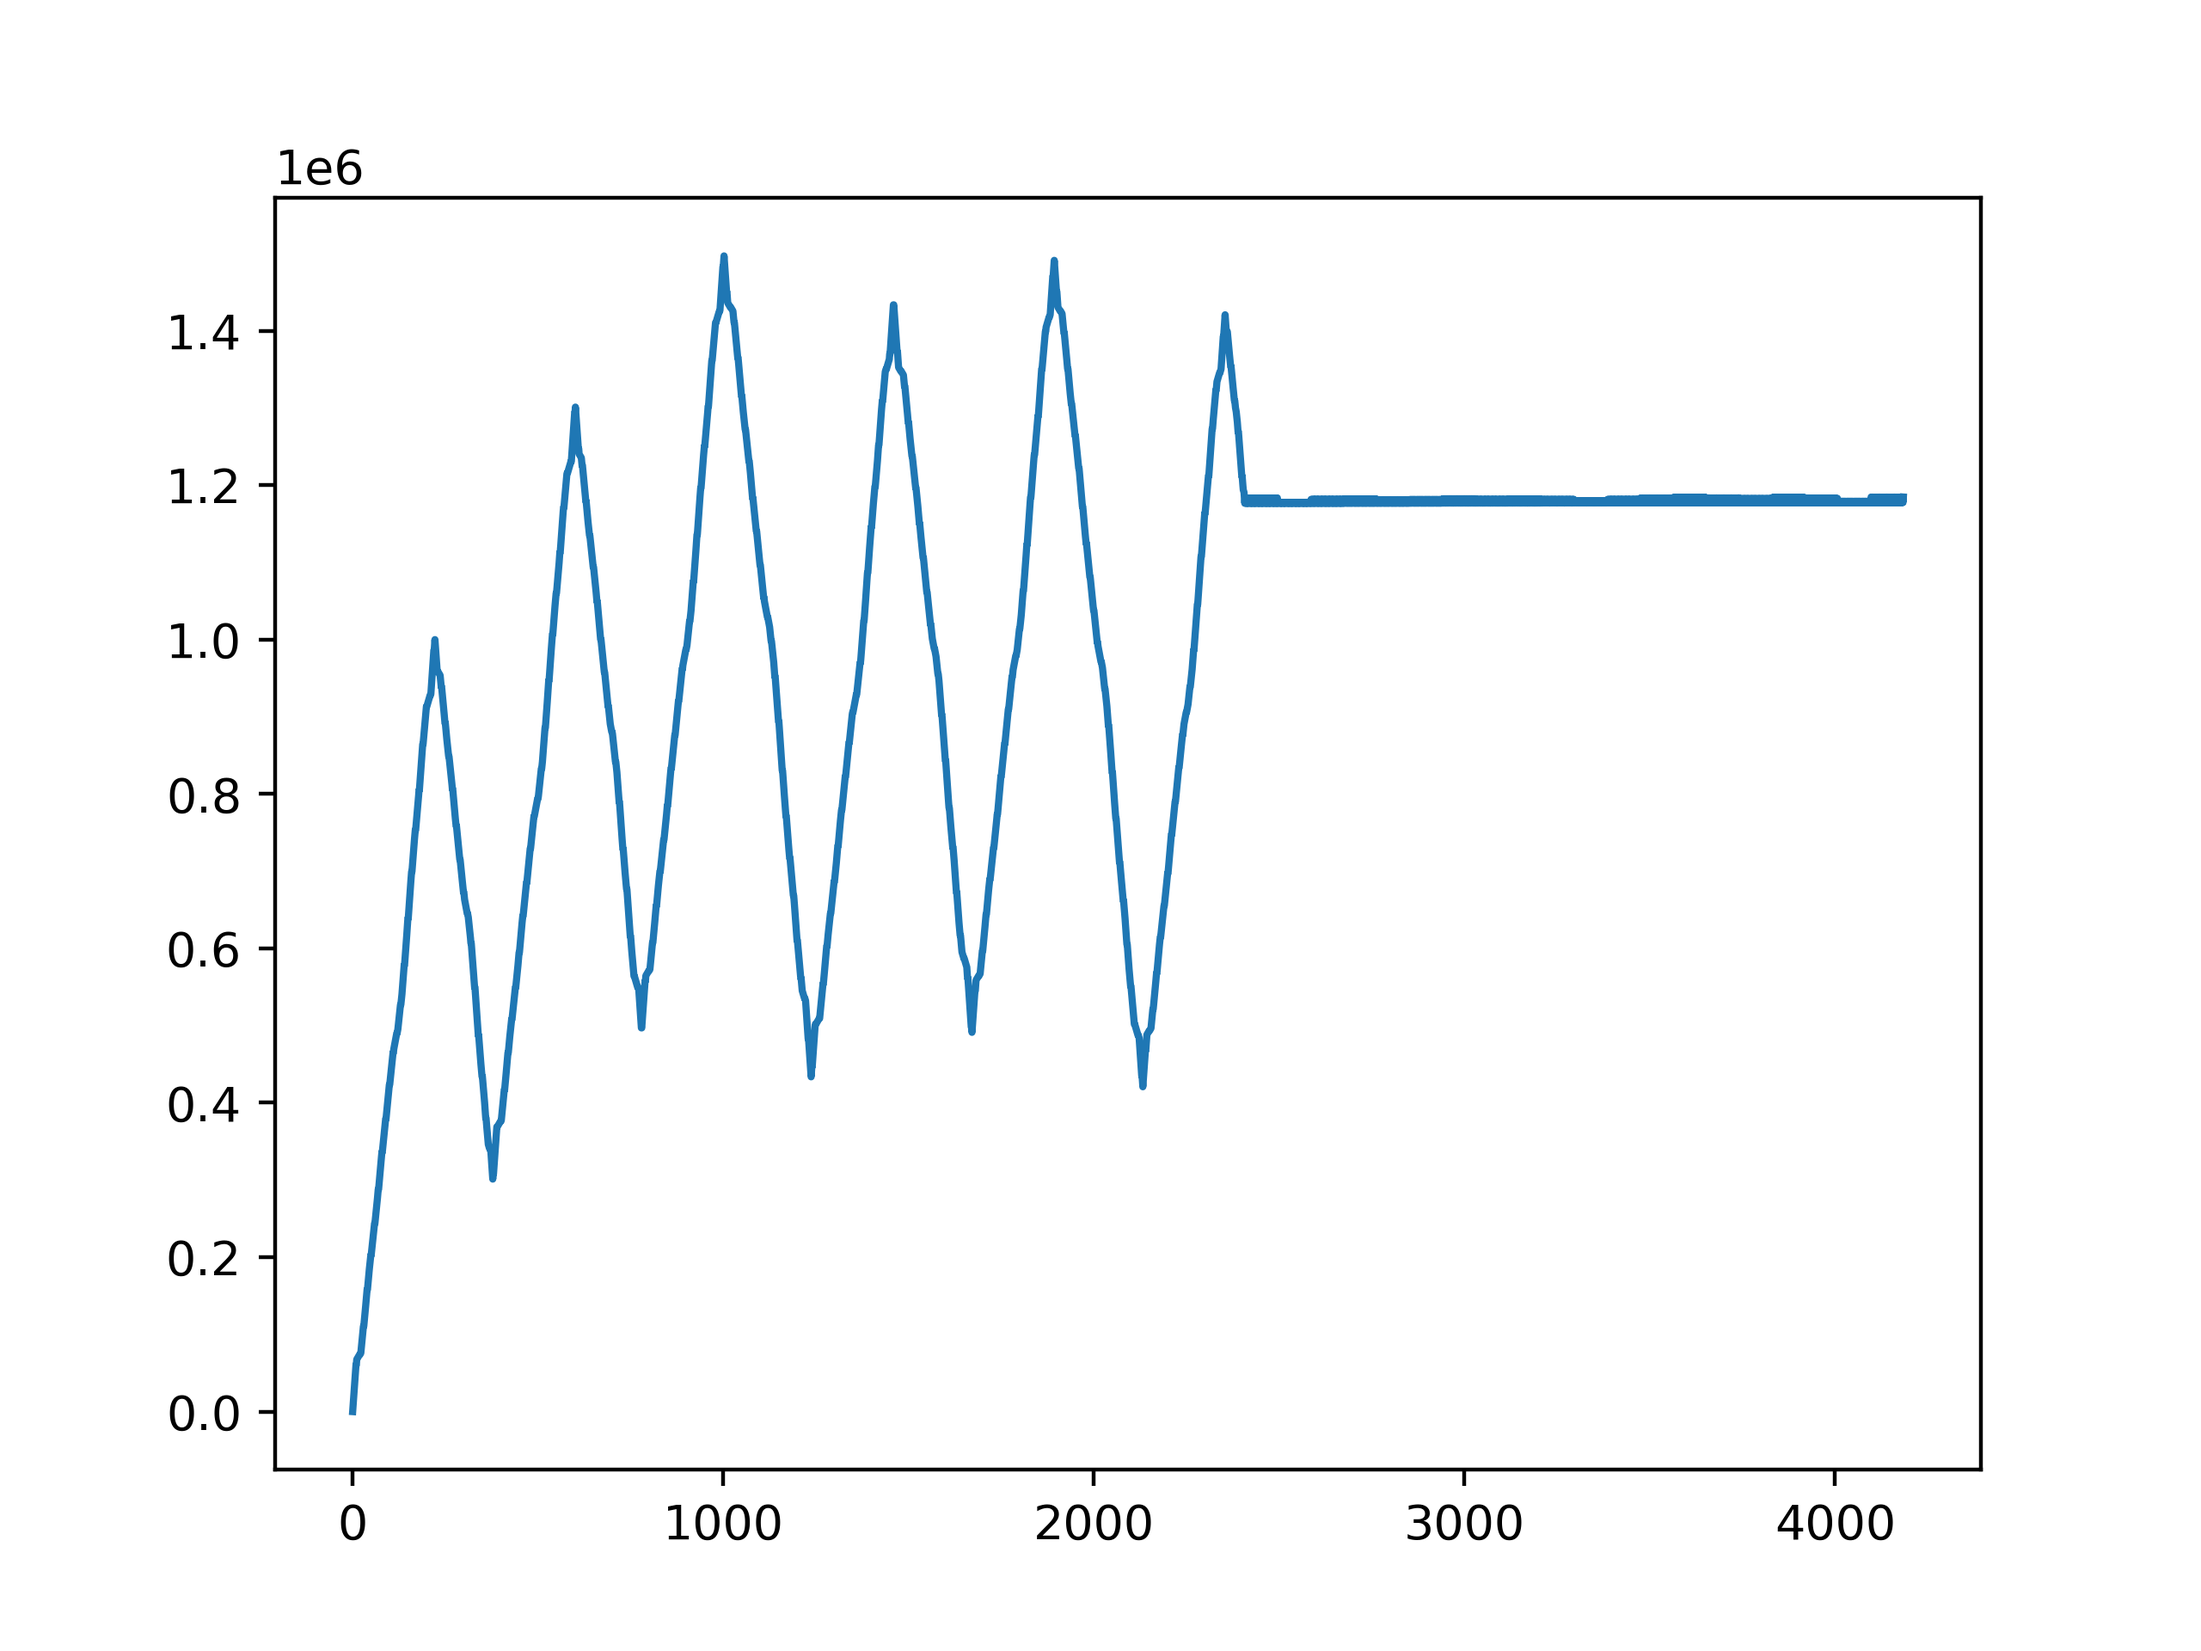
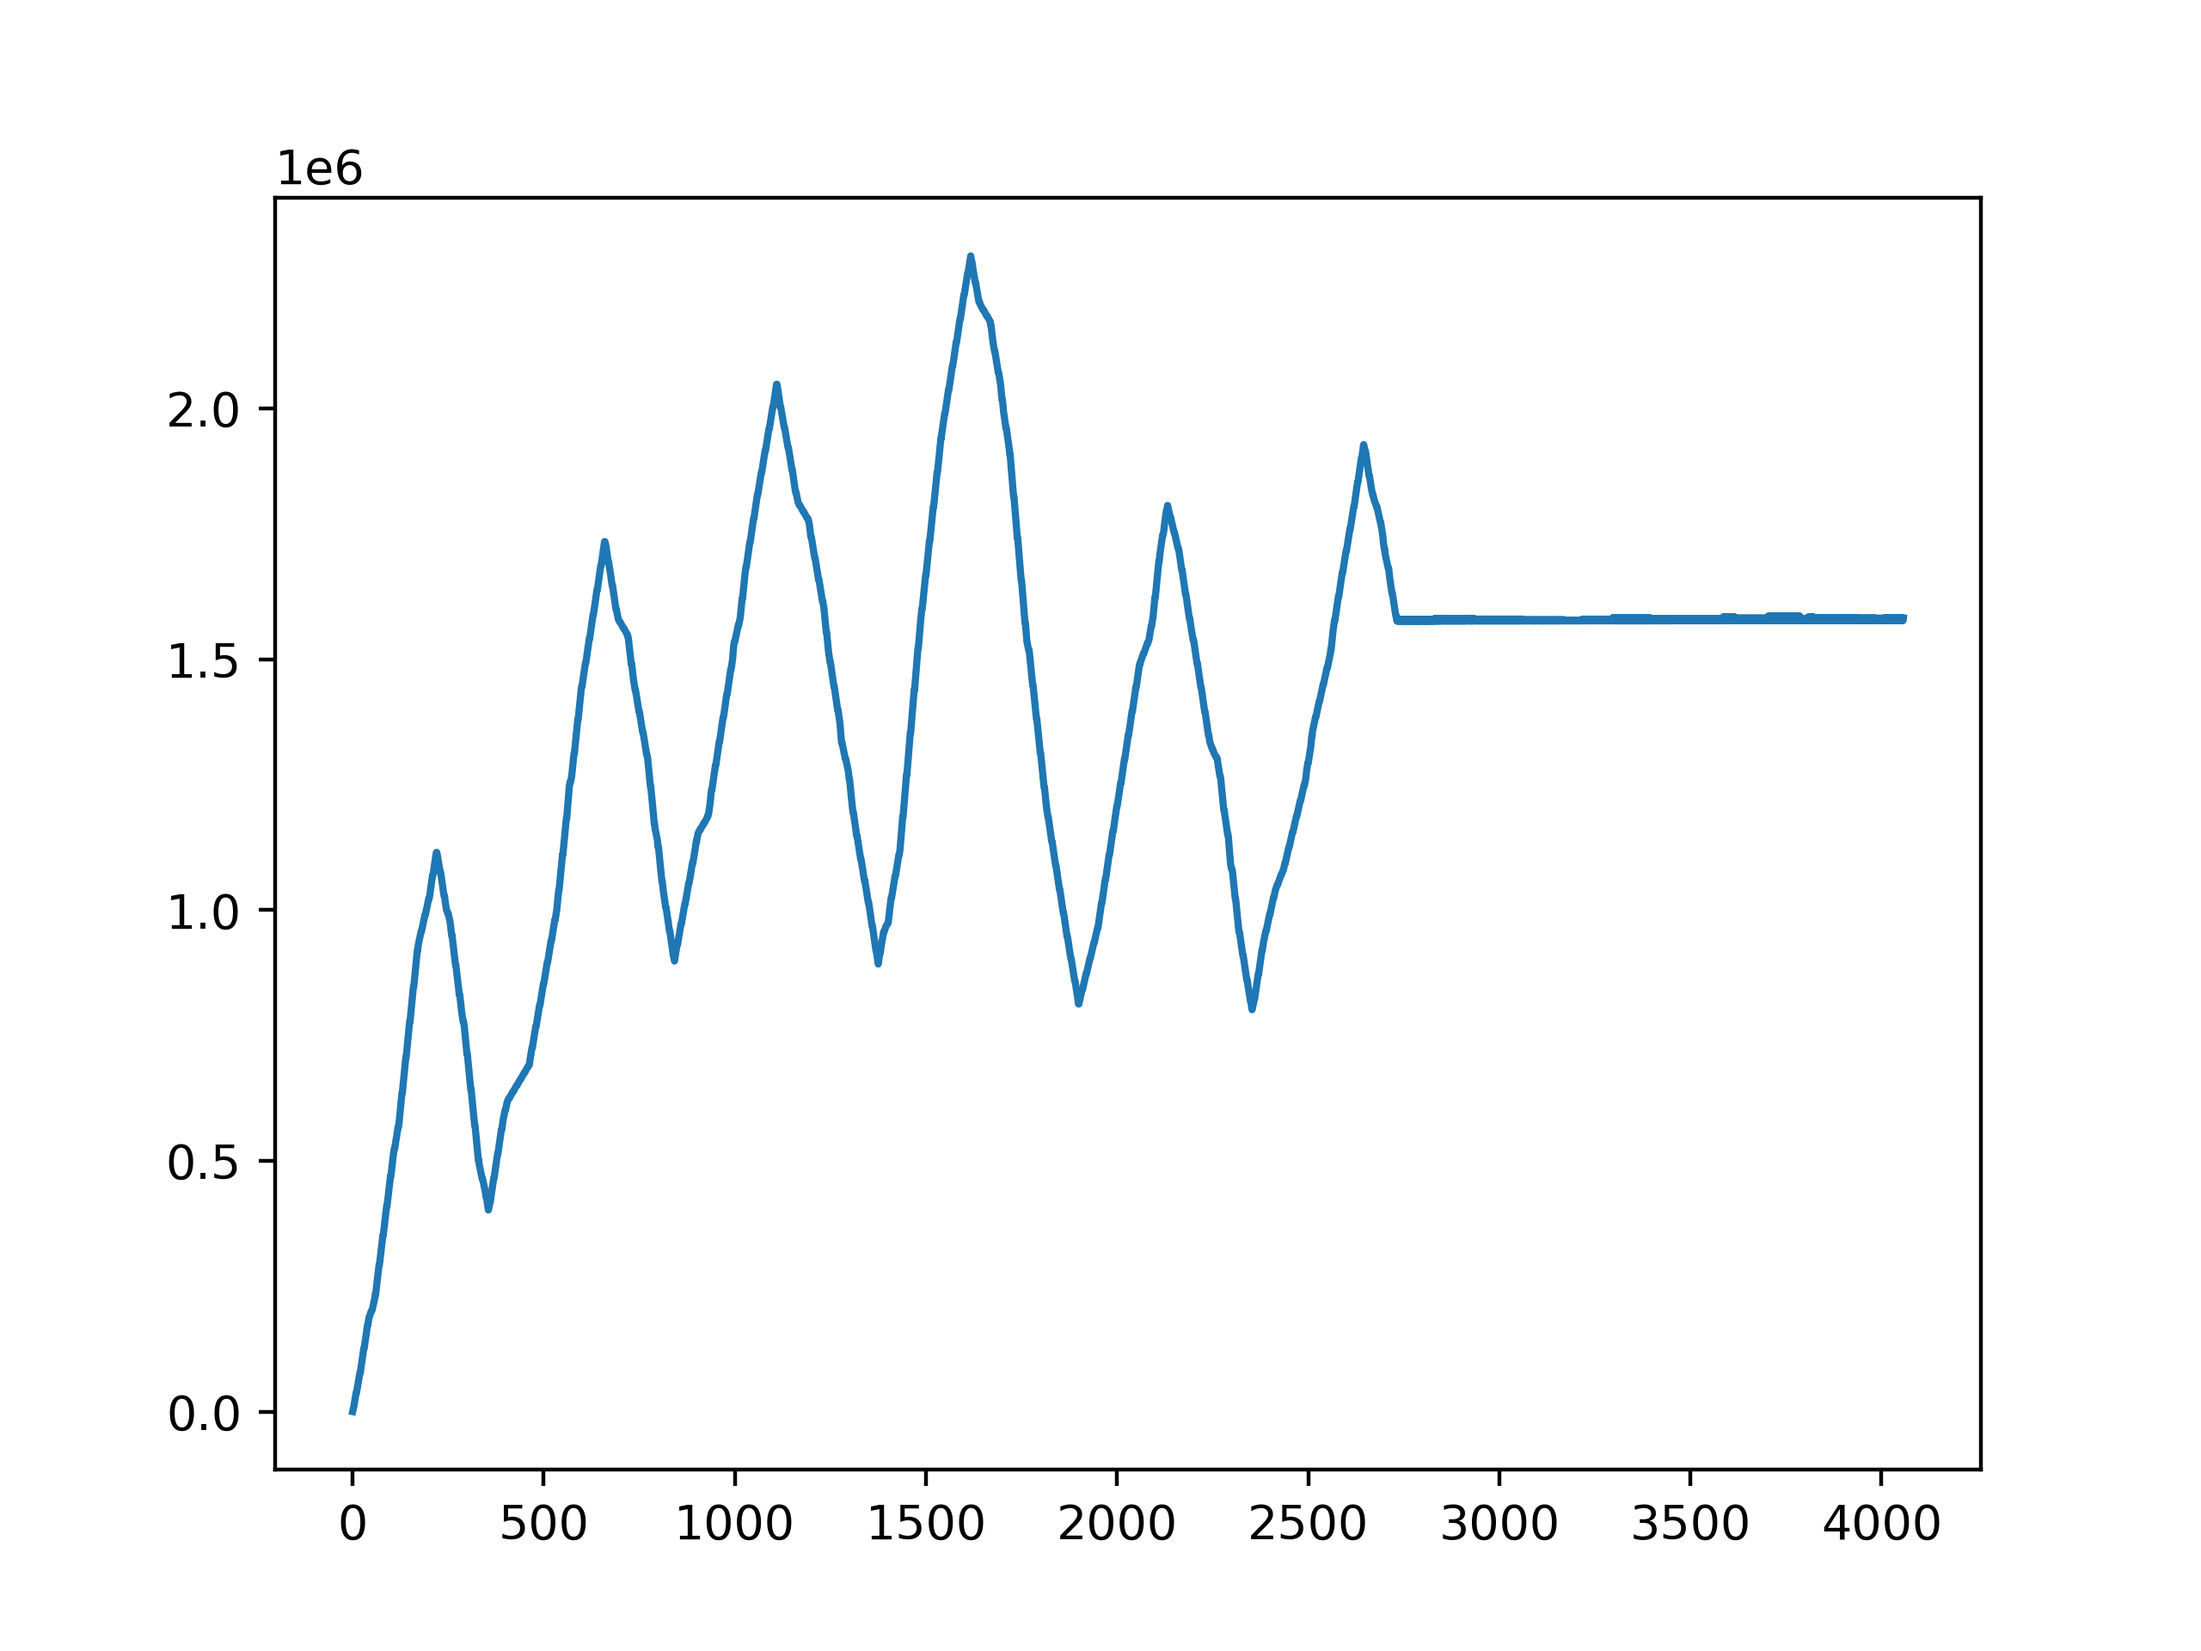
0819

diff --git a/general_runbook_gen.py b/general_runbook_gen.py
@@ -65,7 +65,14 @@ def create_runbook(
     output_yaml_file:str
 ):
 
-    random.seed(816)
+    if "msmarco" in dataset_str:
+        random.seed(8160)
+        rng = np.random.default_rng(8160)
+    elif "wikipedia" in dataset_str:
+        random.seed(8161)
+        rng = np.random.default_rng(8161)
+
+    # rng=np.random.default_rng()
 
     operation_list = []
     num_operations = 1
@@ -94,11 +101,29 @@ def create_runbook(
 
     # In the first 60% time steps: consecutively insert 10% points and then remove a random fraction of the index size between 30% to 60%, repeat this for 6 rounds.
 
-    num_rounds=6
+    # num_rounds=8
+    # num_block_per_round = rng.dirichlet((100,50,30,15,10,5,3,1), num_clusters)
 
-    for round in range(num_rounds):
+    num_rounds=6
+    num_block_per_round = rng.dirichlet((100,15,10,5,3,1), num_clusters)
+
+    round_sum=[]
+    for c in range(num_clusters):
+        rng.shuffle(num_block_per_round[c])
+        # num_block_per_round[c]=[int(x*100) for x in num_block_per_round[c]]
+        # assert(sum(num_block_per_round[c])<=100)
+    # for i in range(num_rounds):
+        # round_sum.append((sum([num_block_per_round[c][i] for c in range(num_clusters)]),i))
+    # round_sum=sorted(round_sum)
+    # round_sum=round_sum[1:]+round_sum[:1]
+    # for c in range(num_clusters):
+        # num_block_per_round[c]=[num_block_per_round[c][y] for (x,y) in round_sum]
+
+    num_block_per_round=(num_block_per_round*100).astype(int)
+
+    for round in range(num_rounds-1):
         for c in range(num_clusters):
-            for step in range(10):
+            for step in range(num_block_per_round[c][round]):
                 #insertions
                 block_id=cur_block_cursor[c]
                 delta = blocks[c][block_id][1]-blocks[c][block_id][0]
@@ -129,10 +154,11 @@ def create_runbook(
 
         for c in range(num_clusters):
 
-            if round<num_rounds-1:
+            if round<num_rounds-2:
                 delete_steps=random.randint(int(num_active_blocks[c]*0.5),int(num_active_blocks[c]*0.9))
             else:
-                delete_steps=int(num_active_blocks[c]*0.2)
+                # delete_steps=int(num_active_blocks[c]*0.2)
+                delete_steps=0
 
             for step in range(delete_steps):        
                 #deletions
@@ -281,7 +307,7 @@ def main():
                          permutation=permutation,
                          output_data_file=args.output_data_file)
 
-    print("write permuted data completes")
+    # print("write permuted data completes")
 
     create_runbook(dataset_str=args.dataset,
                    offsets=offsets,

diff --git a/check_runbook.py b/check_runbook.py
@@ -2,18 +2,20 @@ import os
 import yaml
 
 
-# dataset_name="msmarco-10M"
 dataset_name="msmarco-10M"
 # dataset_name="wikipedia-35M"
 
-plot_name="817"
+plot_name="818eve"
 
 if dataset_name=="msmarco-10M":
     # yaml_path="data/msmarco_websearch_20clustered/msmarco-10M-20clustered-general-runbook.yaml"
-    yaml_path="data/msmarco_websearch_20clustered_original/msmarco-10M-20clustered-general-runbook.yaml"
+    # yaml_path="data/msmarco_websearch_20clustered_original/msmarco-10M-20clustered-general-runbook.yaml"
+    yaml_path="data/msmarco_websearch_20clustered_dirichlet/msmarco-10M-20clustered-general-runbook.yaml"
     max_points=10000000
 elif dataset_name=="wikipedia-35M":
-    yaml_path="data/wikipedia_cohere_60clustered/wikipedia-35M-60clustered-general-runbook.yaml"
+    # yaml_path="data/wikipedia_cohere_60clustered/wikipedia-35M-60clustered-general-runbook.yaml"
+    # yaml_path="data/wikipedia_cohere_60clustered_original/wikipedia-35M-60clustered-general-runbook.yaml"
+    yaml_path="data/wikipedia_cohere_60clustered_dirichlet/wikipedia-35M-60clustered-general-runbook.yaml"
     max_points=35000000
 
 with open(yaml_path, 'r') as file:

diff --git a/neurips23/streaming/test_dirichlet.py b/neurips23/streaming/test_dirichlet.py
@@ -1,0 +1,39 @@
+import argparse
+import os
+import numpy as np
+import random
+import yaml
+
+
+# sample = np.random.default_rng().dirichlet((100,15,10,5,3), 20)
+
+# print(sample)
+
+# print((sample*100).astype(int))
+
+num_clusters=20
+# num_clusters=60
+
+# num_rounds=8
+# num_block_per_round = np.random.default_rng().dirichlet((100,50,30,15,10,5,3,1), num_clusters)
+
+num_rounds=6
+num_block_per_round = np.random.default_rng().dirichlet((100,15,10,5,3,1), num_clusters)
+
+round_sum=[]
+for c in range(num_clusters):
+    np.random.default_rng().shuffle(num_block_per_round[c])
+    # num_block_per_round[c]=[int(x*100) for x in num_block_per_round[c]]
+    # assert(sum(num_block_per_round[c])<=100)
+for i in range(num_rounds):
+    round_sum.append((sum([num_block_per_round[c][i] for c in range(num_clusters)]),i))
+# round_sum=sorted(round_sum)
+# round_sum=round_sum[1:]+round_sum[:1]
+for c in range(num_clusters):
+    num_block_per_round[c]=[num_block_per_round[c][y] for (x,y) in round_sum]
+
+num_block_per_round=(num_block_per_round*100).astype(int)
+
+print(round_sum)
+
+print(num_block_per_round)

diff --git a/neurips23/streaming/final_runbook_gen.py b/neurips23/streaming/final_runbook_gen.py
@@ -80,7 +80,6 @@ def create_runbook(
     sample = np.random.default_rng().dirichlet((100,15,10,5,3), num_clusters)
     for c in range(num_clusters):
         np.random.default_rng().shuffle(sample[c])
-    print(sample)
 
     for round in range(num_rounds):
         #insertions
